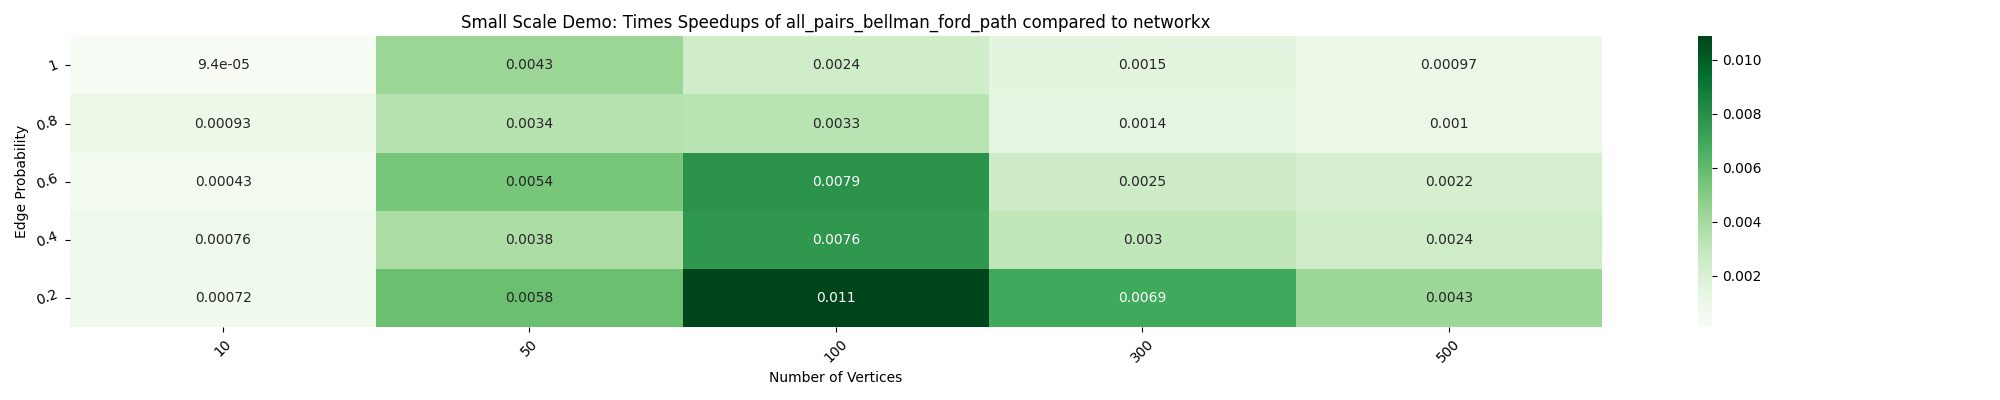
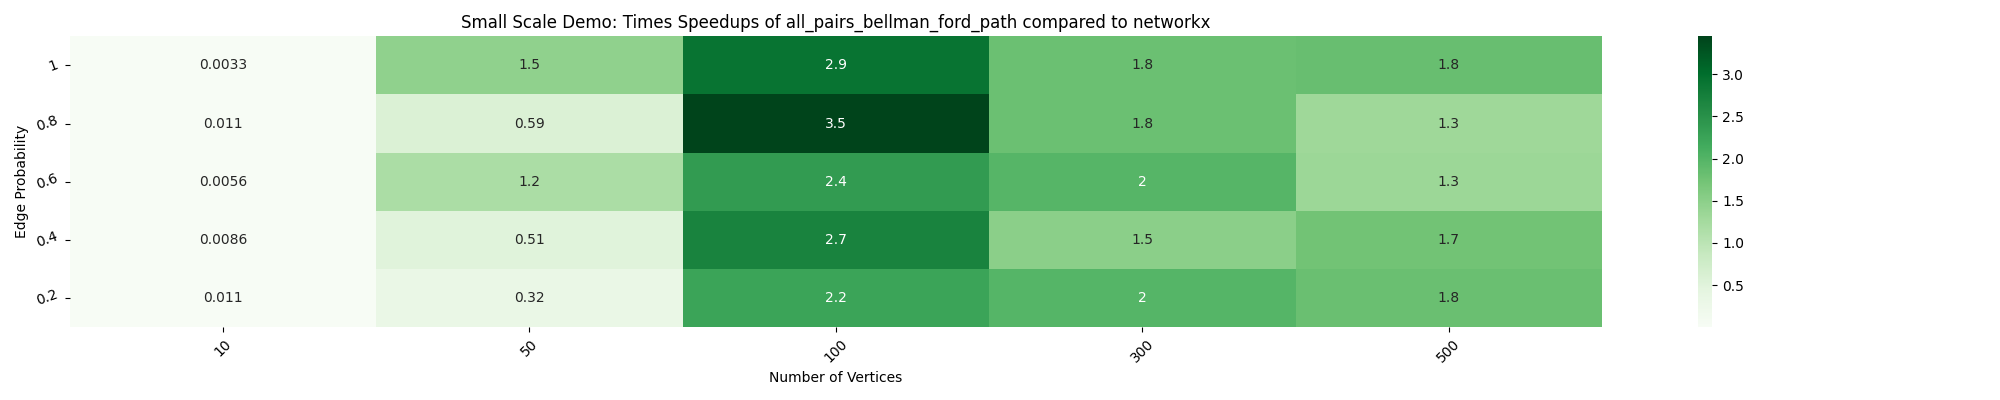
changed return type from dict to generator

diff --git a/timing/timing_individual_function.py b/timing/timing_individual_function.py
@@ -1,4 +1,6 @@
 import time
+import random
+import types
 
 import networkx as nx
 import pandas as pd
@@ -11,68 +13,74 @@ import nx_parallel
 heatmapDF = pd.DataFrame()
 number_of_nodes_list = [10, 50, 100, 300, 500]
 pList = [1, 0.8, 0.6, 0.4, 0.2]
-funcs = [nx.betweenness_centrality, nx.all_pairs_bellman_ford_path]
-for currFun in funcs:
-    for i in range(0, len(pList)):
-        p = pList[i]
-        for j in range(0, len(number_of_nodes_list)):
-            num = number_of_nodes_list[j]
+currFun = nx.all_pairs_bellman_ford_path
+for i in range(0, len(pList)):
+    p = pList[i]
+    for j in range(0, len(number_of_nodes_list)):
+        num = number_of_nodes_list[j]
+        
+        # create original and parallel graphs
+        G = nx.fast_gnp_random_graph(num, p, directed=False)
+        
+        # for weighted graphs
+        for u, v in G.edges():
+            G[u][v]['weight'] = random.random()
+        
+        H = nx_parallel.ParallelGraph(G)
 
-            # create original and parallel graphs
-            G = nx.fast_gnp_random_graph(num, p, directed=False)
-            H = nx_parallel.ParallelGraph(G)
+        # time both versions and update heatmapDF
+        t1 = time.time()
+        c = currFun(H)
+        if type(c)==types.GeneratorType: d = dict(c) 
+        t2 = time.time()
+        parallelTime = t2 - t1
+        t1 = time.time()
+        c = currFun(G)
+        if type(c)==types.GeneratorType: d = dict(c) 
+        t2 = time.time()
+        stdTime = t2 - t1
+        timesFaster = stdTime / parallelTime
+        heatmapDF.at[j, i] = timesFaster
+        print("Finished " + str(currFun))
 
-            # time both versions and update heatmapDF
-            t1 = time.time()
-            c = currFun(H)
-            t2 = time.time()
-            parallelTime = t2 - t1
-            t1 = time.time()
-            c = currFun(G)
-            t2 = time.time()
-            stdTime = t2 - t1
-            timesFaster = stdTime / parallelTime
-            heatmapDF.at[j, i] = timesFaster
-            print("Finished " + str(currFun))
+# Code to create for row of heatmap specifically for tournaments
+# for i in range(0, len(pList)):
+#     p = pList[i]
+#     for j in range(0, len(number_of_nodes_list)):
+#         num = number_of_nodes_list[j]
+#         G = nx.tournament.random_tournament(num)
+#         H = nx_parallel.ParallelDiGraph(G)
+#         t1 = time.time()
+#         c = nx.tournament.is_reachable(H, 1, num)
+#         t2 = time.time()
+#         parallelTime = t2-t1
+#         t1 = time.time()
+#         c = nx.tournament.is_reachable(G, 1, num)
+#         t2 = time.time()
+#         stdTime = t2-t1
+#         timesFaster = stdTime/parallelTime
+#         heatmapDF.at[j, 3] = timesFaster
 
-    # Code to create for row of heatmap specifically for tournaments
-    # for i in range(0, len(pList)):
-    #     p = pList[i]
-    #     for j in range(0, len(number_of_nodes_list)):
-    #         num = number_of_nodes_list[j]
-    #         G = nx.tournament.random_tournament(num)
-    #         H = nx_parallel.ParallelDiGraph(G)
-    #         t1 = time.time()
-    #         c = nx.tournament.is_reachable(H, 1, num)
-    #         t2 = time.time()
-    #         parallelTime = t2-t1
-    #         t1 = time.time()
-    #         c = nx.tournament.is_reachable(G, 1, num)
-    #         t2 = time.time()
-    #         stdTime = t2-t1
-    #         timesFaster = stdTime/parallelTime
-    #         heatmapDF.at[j, 3] = timesFaster
+# plotting the heatmap with numbers and a green color scheme
+plt.figure(figsize=(20, 4))
+hm = sns.heatmap(data=heatmapDF.T, annot=True, cmap="Greens", cbar=True)
 
-    # plotting the heatmap with numbers and a green color scheme
-    plt.figure(figsize=(20, 4))
-    hm = sns.heatmap(data=heatmapDF.T, annot=True, cmap="Greens", cbar=True)
+# Remove the tick labels on both axes
+hm.set_yticklabels(pList)
 
-    # Remove the tick labels on both axes
-    hm.set_yticklabels(pList)
+# Adding x-axis labels
+hm.set_xticklabels(number_of_nodes_list)
 
-    # Adding x-axis labels
-    hm.set_xticklabels(number_of_nodes_list)
+# Rotating the x-axis labels for better readability (optional)
+plt.xticks(rotation=45)
+plt.yticks(rotation=20)
+plt.title(
+    "Small Scale Demo: Times Speedups of " + currFun.__name__ + " compared to networkx"
+)
+plt.xlabel("Number of Vertices")
+plt.ylabel("Edge Probability")
+print(currFun.__name__)
 
-    # Rotating the x-axis labels for better readability (optional)
-    plt.xticks(rotation=45)
-    plt.yticks(rotation=20)
-    plt.title(
-        "Small Scale Demo: Times Speedups of " + currFun.__name__ + " compared to networkx"
-    )
-    plt.xlabel("Number of Vertices")
-    plt.ylabel("Edge Probability")
-    print(currFun.__name__)
-
-    # displaying the plotted heatmap
-    plt.tight_layout()
-    plt.savefig("timing/" + "heatmap_" + currFun.__name__ + "_timing.png")
+# displaying the plotted heatmap
+plt.tight_layout()
+plt.savefig("timing/" + "heatmap_" + currFun.__name__ + "_timing.png")

diff --git a/nx_parallel/algorithms/shortest_paths/weighted.py b/nx_parallel/algorithms/shortest_paths/weighted.py
@@ -30,9 +30,9 @@ def all_pairs_bellman_ford_path(G, weight="weight"):
 
     Returns
     -------
-    all_paths : 
-        dictionary keyed by source with value as another dictionary keyed 
-        by target and shortest path as its key value.
+    paths : iterator
+        (source, dictionary) iterator with dictionary keyed by target and
+        shortest path as the key value.
 
     Notes
     -----
@@ -40,6 +40,9 @@ def all_pairs_bellman_ford_path(G, weight="weight"):
     Distances are calculated as sums of weighted edges traversed.
 
     """
+    def _calculate_shortest_paths_subset(G, source, weight):
+        return (source, single_source_bellman_ford_path(G, source, weight=weight))
+
     if hasattr(G, "graph_object"):
         G = G.graph_object
 
@@ -47,23 +50,12 @@ def all_pairs_bellman_ford_path(G, weight="weight"):
 
     total_cores = nxp.cpu_count()
     
-    num_in_chunk = max(len(nodes) // total_cores, 1)
-    node_chunks = nxp.chunks(nodes, num_in_chunk)
-    
-    paths_list = Parallel(n_jobs=total_cores)(delayed(_calculate_shortest_paths_subset)(G, chunk, weight) for chunk in node_chunks)
-    
-    
-    all_paths = {}
-    for result in paths_list:
-        for source, paths in result.items():
-            all_paths[source]=paths
-    return all_paths
-
-
-# Helper function
-def _calculate_shortest_paths_subset(G, chunk, weight):
-    result = {}
-    for source in chunk:
-        paths = single_source_bellman_ford_path(G, source, weight=weight)
-        result[source] = paths
-    return result
+    paths = Parallel(n_jobs=total_cores, return_as="generator")(
+                    delayed(_calculate_shortest_paths_subset)(
+                        G, 
+                        source, 
+                        weight=weight
+                    )
+                    for source in nodes
+                )
+    return paths

diff --git a/timing/timing_comparison.md b/timing/timing_comparison.md
@@ -27,3 +27,6 @@ local_efficiency
 
 tournament is_reachable
 ![alt text](heatmap_is_reachable_timing.png)
+
+all_pairs_bellman_ford_path
+![alt text](heatmap_all_pairs_bellman_ford_path_timing.png)
